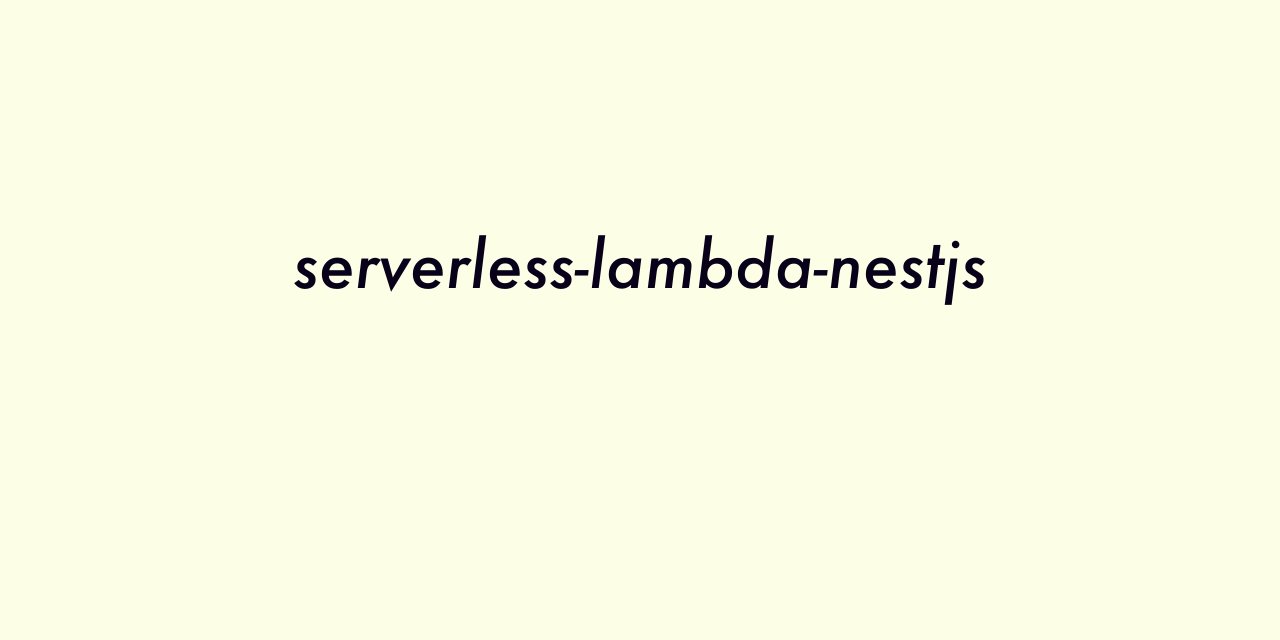
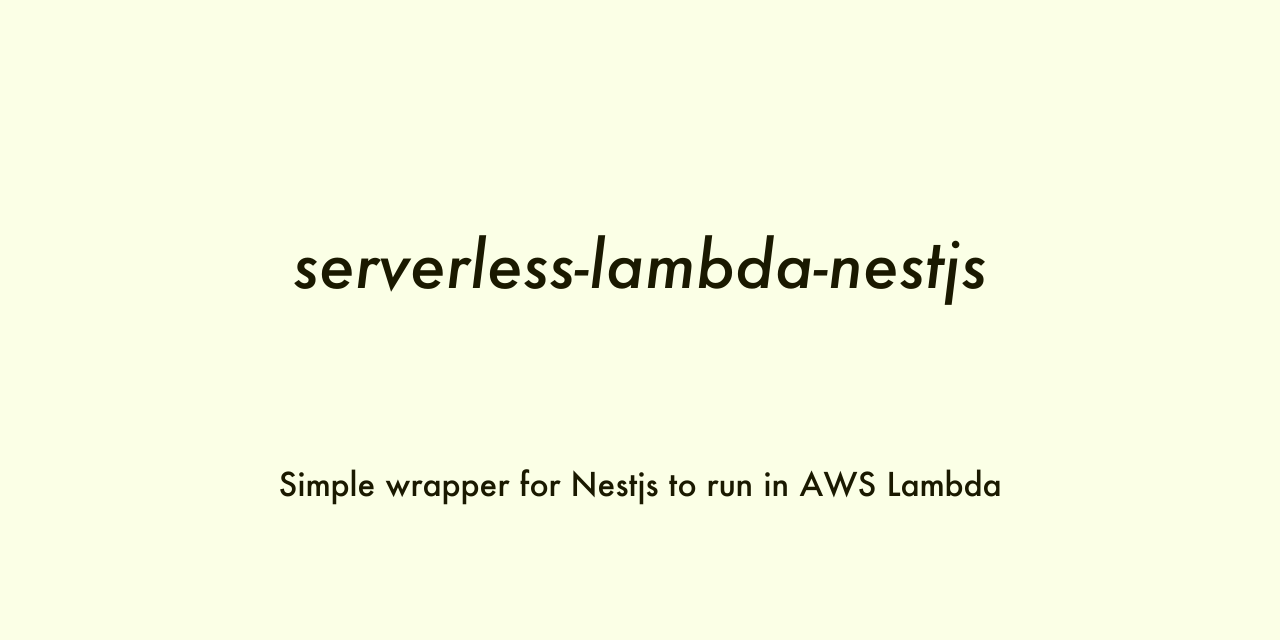
docs: readme and ogp

Changed region(s): [[0.2188, 0.375, 0.7812, 0.4688], [0.2188, 0.7188, 0.7812, 0.7812]]

diff --git a/README.md b/README.md
@@ -71,8 +71,8 @@ $ yarn run create:ogp:light
 ## Prepare
 
 ```
-$ git clone YOUR_REPO_URI
-$ cd YOUR_REPO_URI
+$ git clone git@github.com:hideokamoto/serverless-lambda-nestjs.git
+$ cd serverless-lambda-nestjs
 
 // Put your GitHub Personal Access Token
 $ mv .envrc.example .envrc
